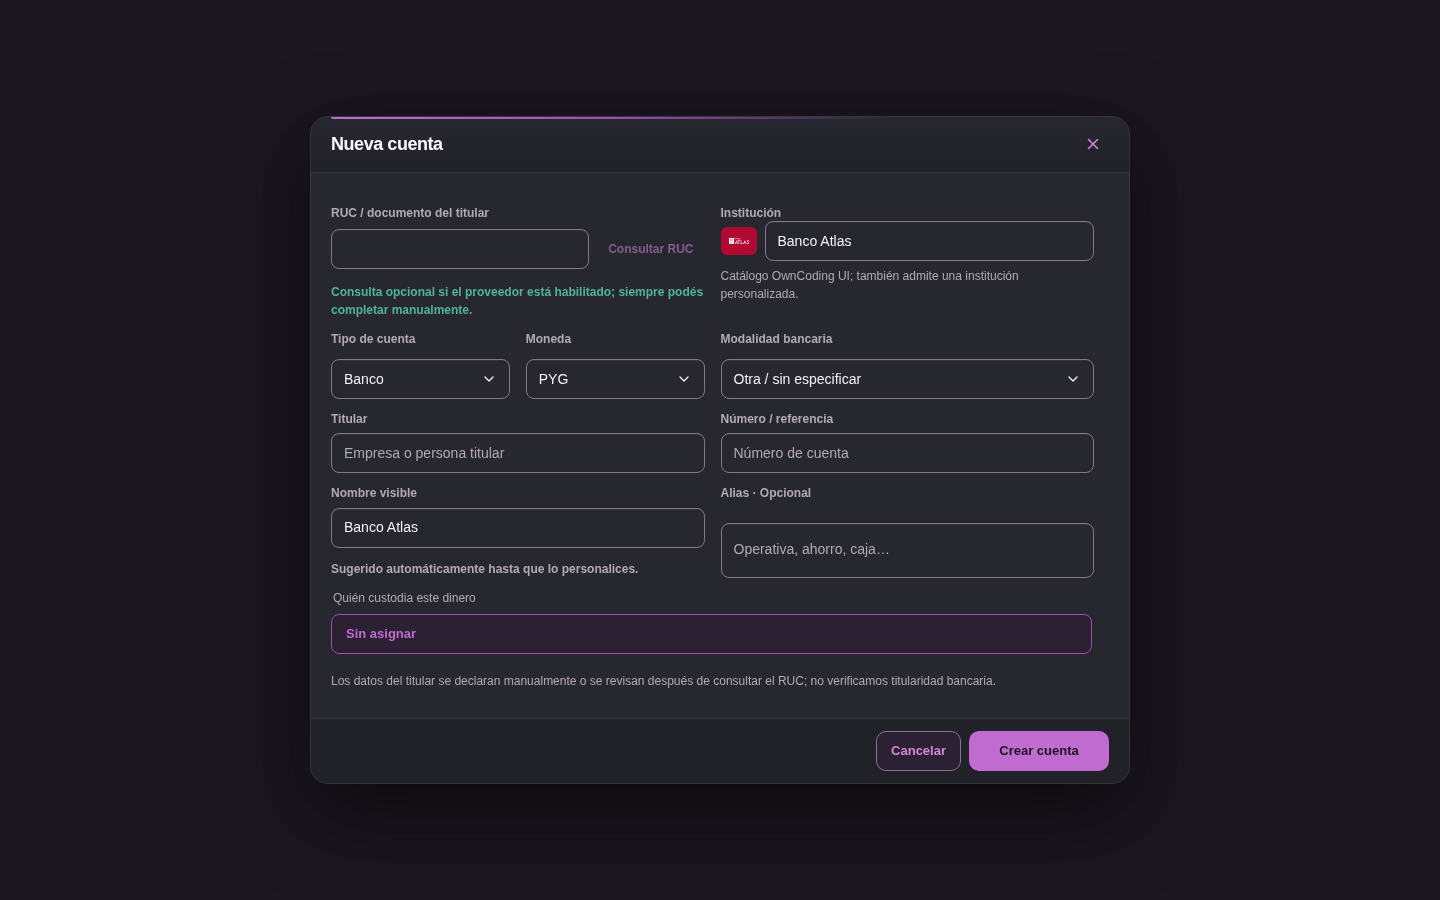
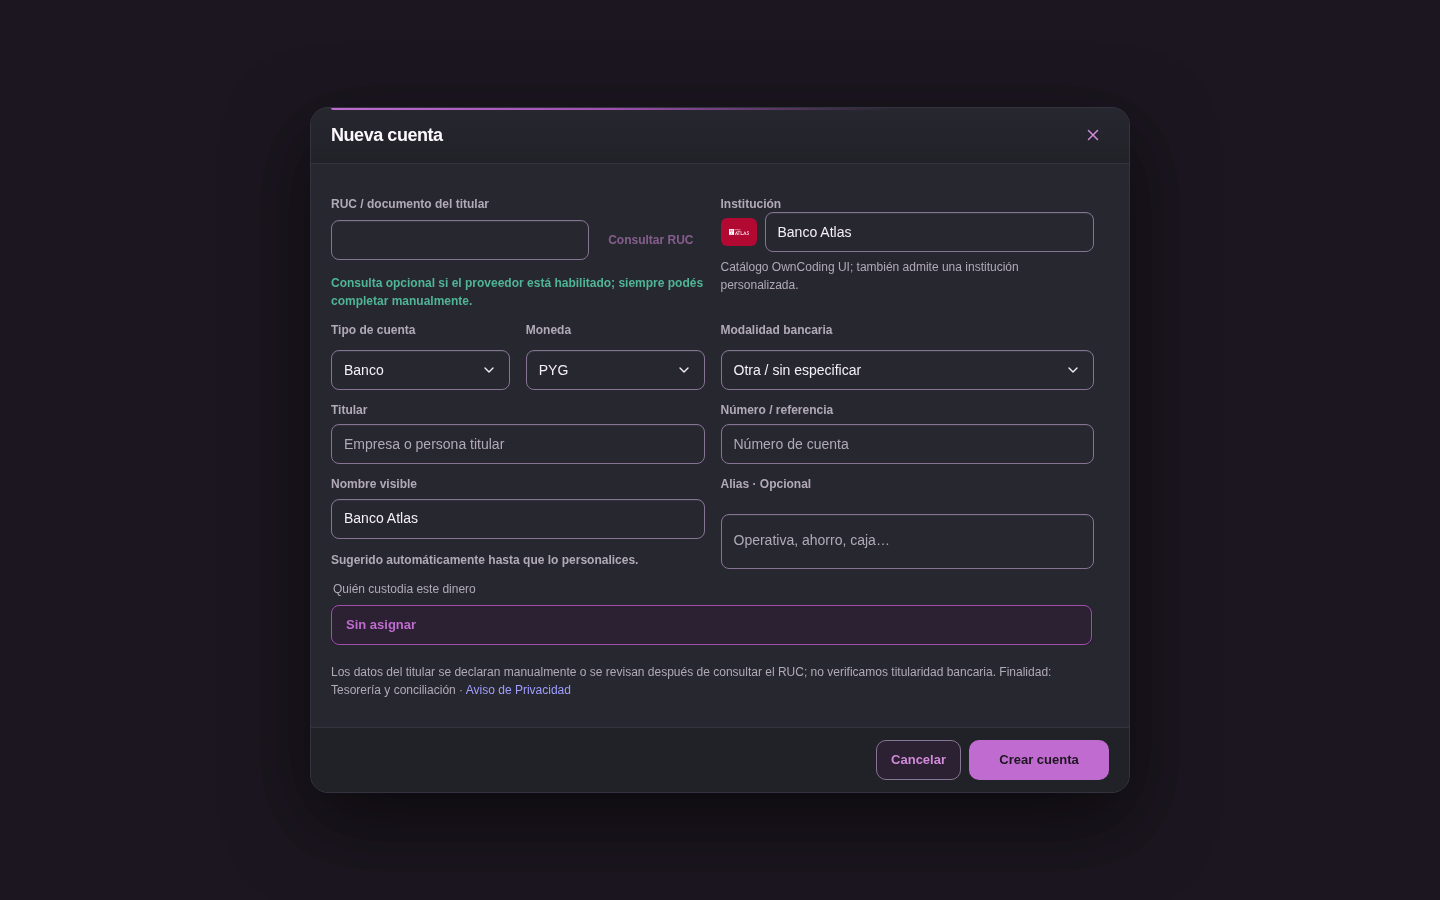
docs(qa): record completed local gates and management policy

diff --git a/docs/qa/mcp330/integration.md b/docs/qa/mcp330/integration.md
@@ -14,7 +14,7 @@ Entrega integrada en PR #339. Este documento distingue evidencia de pruebas y es
 ## Evidencia
 
 - SDK oficial + HTTP + PostgreSQL: 97 comprobaciones financieras sobre runtime root `17a07a21`, fuentes idénticas a `6d77e643`. Incluye dinero exacto, idempotencia, conflictos, cuentas, revisión, permisos revocados, privacidad y autenticación reciente. Pruebas exclusivamente aisladas.
-- APIs de adhesión: 70 comprobaciones canónicas. Pruebas de jerarquía e invitaciones incluyen tenant, límites de rol y filtrado de eventos salariales.
+- APIs de adhesión: 78 comprobaciones canónicas, incluidas concesión/revocación individual y emisión externa bloqueada en demo. Pruebas de jerarquía e invitaciones incluyen tenant, límites de rol y filtrado de eventos salariales.
 - Migraciones aditivas 120→123: frontera histórica preservada, datos existentes y tracker conservados tras reinicios; no se crean cobros ni deudas por migración.
 - Chromium: controles reales y HTTP sintético en 320/390/768/1440, temas claro/oscuro, errores superiores, permisos, adhesión y creación bancaria anidada. Ver `README.md`, JSON y capturas de este directorio. Esta evidencia no sustituye dispositivos físicos ni conexión real de cuentas Claude/ChatGPT.
 
@@ -24,4 +24,4 @@ Matrices en `backend/mcp-*-coverage.json` documentan rutas soportadas y límites
 
 El dueño informó haber configurado las tres variables OwnData y hecho deploy. La comprobación pública posterior dio API `/health` 200, versión1.0.202, base ready. No se ejecutó una consulta real con su sesión/clave; la disponibilidad del proveedor no se acredita con health. #213 conserva seguimiento externo; #312 conserva conexión real de asistentes.
 
-Versión nueva, regresión completa, CI y smoke de producción: pendientes de completar por el integrador antes de cerrar issues. Se actualizarán con evidencia del SHA final.
+Validación local candidata1.0.203: regresión frontend completa292 entradas PASS; suite backend completa PASS, más pruebas focales posteriores de adhesión/demo y SDK real PostgreSQL PASS. Build de producción `c68V-SdJqUR_qDYM4rOuN`, presupuesto de carga de login/registro/status y versiones/footer PASS. CI final, integración y smoke de producción pendientes; se acreditan por separado antes del cierre.
